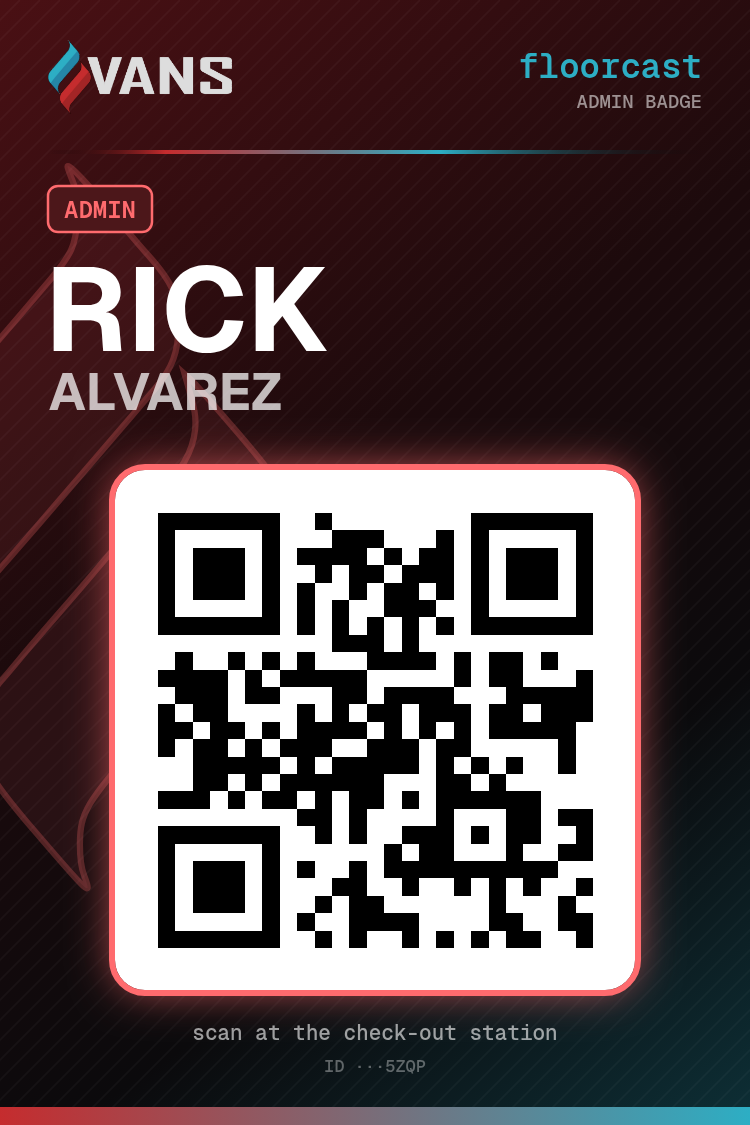
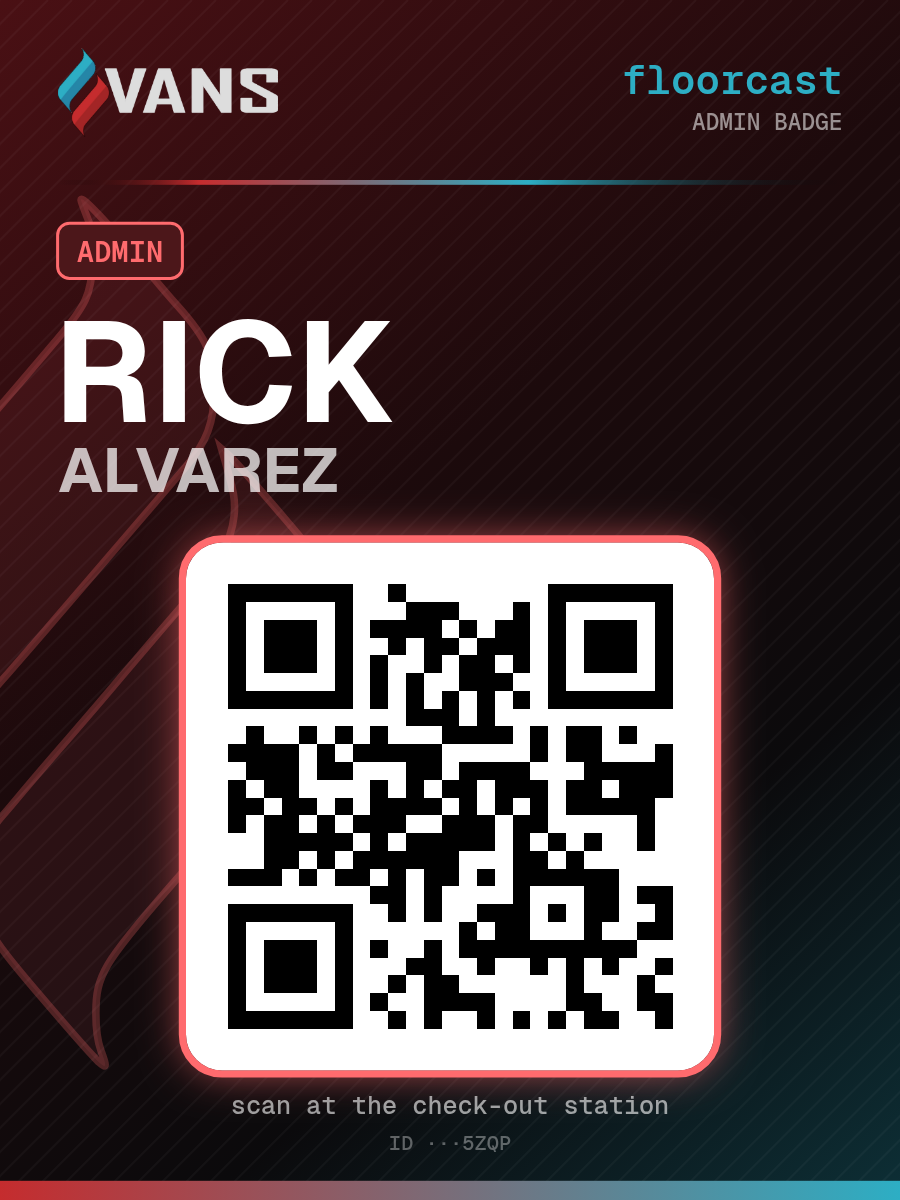
Badges: 3 x 4 in vertical for Avery 5392; print one or several on a sheet, pick the first free spot, alignment test page
Claude-Session: https://claude.ai/code/session_01MqZR9KwRFkVfd9nv53fq6N

diff --git a/src/components/Badges.tsx b/src/components/Badges.tsx
@@ -1,10 +1,10 @@
 import { useEffect, useState, type FormEvent } from "react";
-import { IdCard, Plus, Printer, RefreshCw, Share2, ShieldCheck, Trash2 } from "lucide-react";
-import { Button, Confirm, cx, errorText, toast } from "@/components/ui";
+import { Check, IdCard, Plus, Printer, RefreshCw, Share2, ShieldCheck, Trash2 } from "lucide-react";
+import { Button, Confirm, Overlay, cx, errorText, toast } from "@/components/ui";
 import { addEmployee, badgePayload, listEmployees, reissueBadge, removeEmployee, setEmployeeRole, type BadgeRole, type Employee } from "@/lib/badges";
 import { useRole } from "@/lib/role";
 import { type BadgeStyle } from "@/lib/badgeArt";
-import { renderBadgeTall } from "@/lib/badgeTall";
+import { AVERY_SPOTS, drawBadge, renderAverySheet, renderAveryTest, renderBadgeTall } from "@/lib/badgeTall";
 import { downloadBlob, printLabel } from "@/lib/sticker";
 import { DEMO_UI } from "@/lib/supabase";
 
@@ -12,12 +12,12 @@ async function badgeBlob(e: Employee, style: BadgeStyle) {
   return renderBadgeTall(e.name, badgePayload(e.badge), style, e.role);
 }
 
-/** Fits a 2½ × 3¾ in badge holder. */
-const BADGE_SIZE = { w: "2.5in", h: "3.75in" };
+/** Badges print on Avery 5392 sheets: a full letter page. */
+const LETTER = { w: "8.5in", h: "11in" };
 
 const STYLES: Array<{ style: BadgeStyle; label: string; hint: string }> = [
-  { style: "color", label: "full color", hint: "Color printer, 2½×3¾ in." },
-  { style: "label", label: "black & white", hint: "Black and white printer or labels, 2½×3¾ in." },
+  { style: "color", label: "full color", hint: "3×4 in · Avery 5392 sheets, color printer" },
+  { style: "label", label: "black & white", hint: "3×4 in · Avery 5392 sheets, any printer" },
 ];
 
 /** Share sheet on phones (Save Image / Print), download elsewhere. */
@@ -48,6 +48,7 @@ export function BadgesSection() {
   const [reissue, setReissue] = useState<Employee | null>(null);
   const [remove, setRemove] = useState<Employee | null>(null);
   const [goStation, setGoStation] = useState(false);
+  const [sheet, setSheet] = useState<{ ids: number[]; style: BadgeStyle } | null>(null);
 
   const load = () =>
     void listEmployees().then(
@@ -162,6 +163,12 @@ export function BadgesSection() {
         </ul>
       ) : null}
 
+      {people && people.length > 0 ? (
+        <Button onClick={() => setSheet({ ids: [], style: "color" })}>
+          <Printer className="size-[18px]" /> print a sheet of badges
+        </Button>
+      ) : null}
+
       <div className="mt-2 flex flex-col gap-2 rounded-[12px] border border-line bg-panel p-3.5">
         <p className="text-[14px] text-ink">Make this device the check-out station</p>
         <Button variant="primary" onClick={() => setGoStation(true)}>
@@ -194,7 +201,13 @@ export function BadgesSection() {
               <span className="text-[13px] text-dim">{STYLES.find((o) => o.style === preview.style)?.hint}</span>
               {DEMO_UI ? <span className="text-[13px] text-faint">Printing and saving are blocked in this preview.</span> : null}
               <span className="flex gap-2">
-                <Button disabled={DEMO_UI} onClick={() => void badgeBlob(preview.e, preview.style).then((b) => printLabel(b, `${preview.e.name} badge`, BADGE_SIZE))}>
+                <Button
+                  disabled={DEMO_UI}
+                  onClick={() => {
+                    setSheet({ ids: [preview.e.id], style: preview.style });
+                    setPreview(null);
+                  }}
+                >
                   <Printer className="size-[18px]" /> print
                 </Button>
                 <Button disabled={DEMO_UI} onClick={() => void saveBadge(preview.e, preview.style)}>
@@ -221,6 +234,8 @@ export function BadgesSection() {
           onConfirm={() => setPreview(null)}
         />
       ) : null}
+
+      {sheet && people ? <PrintSheet people={people} initial={sheet} onClose={() => setSheet(null)} /> : null}
 
       {reissue ? (
         <Confirm
@@ -279,5 +294,117 @@ export function BadgesSection() {
         />
       ) : null}
     </div>
+  );
+}
+
+/**
+ * Print badges on an Avery 5392 sheet (six 3×4 in spots). Pick up to six
+ * people and the first free spot, so a half-used sheet can go back in the tray.
+ */
+function PrintSheet({ people, initial, onClose }: { people: Employee[]; initial: { ids: number[]; style: BadgeStyle }; onClose: () => void }) {
+  const [ids, setIds] = useState<number[]>(initial.ids);
+  const [style, setStyle] = useState<BadgeStyle>(initial.style);
+  const [start, setStart] = useState(1);
+  const [busy, setBusy] = useState(false);
+  const room = AVERY_SPOTS - start + 1;
+  const picked = ids.map((id) => people.find((p) => p.id === id)).filter((p): p is Employee => Boolean(p)).slice(0, room);
+  const full = picked.length >= room;
+
+  const toggle = (id: number) => setIds((cur) => (cur.includes(id) ? cur.filter((x) => x !== id) : full ? cur : [...cur, id]));
+
+  async function print() {
+    setBusy(true);
+    try {
+      const items = await Promise.all(picked.map(async (p, i) => ({ badge: await drawBadge(p.name, badgePayload(p.badge), style, p.role), spot: start + i })));
+      await printLabel(await renderAverySheet(items), "Avery 5392 badge sheet", LETTER);
+    } catch (err) {
+      toast(errorText(err, "Could not print."), "error");
+    } finally {
+      setBusy(false);
+    }
+  }
+
+  return (
+    <Overlay title="Print badges" onClose={onClose} closeLabel="Close">
+      <div className="mx-auto flex w-full max-w-lg flex-1 flex-col gap-4 overflow-y-auto px-4 pt-2 pb-[max(env(safe-area-inset-bottom),16px)]">
+        <h2 className="font-sans text-[24px] leading-tight font-bold tracking-[-0.02em]">Avery 5392 sheet</h2>
+
+        <span className="flex gap-2" role="group" aria-label="Badge style">
+          {STYLES.map((o) => (
+            <button
+              key={o.style}
+              type="button"
+              aria-pressed={style === o.style}
+              onClick={() => setStyle(o.style)}
+              className={cx(
+                "vw-press min-h-10 flex-1 rounded-[8px] border px-3 text-[13px] lowercase",
+                style === o.style ? "border-cyan bg-cyan/10 text-cyan" : "border-line bg-panel text-dim",
+              )}
+            >
+              {o.label}
+            </button>
+          ))}
+        </span>
+
+        <div className="flex flex-col gap-2">
+          <span className="text-[13px] text-dim">Start at spot (skip spots already used)</span>
+          <div className="grid w-40 grid-cols-2 gap-1.5 self-center" role="group" aria-label="Start at spot">
+            {Array.from({ length: AVERY_SPOTS }, (_, i) => i + 1).map((n) => {
+              const who = n >= start ? picked[n - start] : undefined;
+              return (
+                <button
+                  key={n}
+                  type="button"
+                  aria-pressed={start === n}
+                  aria-label={`Start at spot ${n}`}
+                  onClick={() => setStart(n)}
+                  className={cx(
+                    "vw-press flex aspect-[4/3] flex-col items-center justify-center rounded-[6px] border px-1 text-[11px] leading-tight",
+                    n < start ? "border-line/50 bg-transparent text-faint line-through" : who ? "border-cyan bg-cyan/15 text-ink" : "border-line bg-panel text-dim",
+                    start === n && "ring-2 ring-cyan",
+                  )}
+                >
+                  <span className="code text-[12px]">{n}</span>
+                  {who ? <span className="max-w-full truncate">{who.name}</span> : null}
+                </button>
+              );
+            })}
+          </div>
+        </div>
+
+        <ul className="m-0 flex list-none flex-col p-0" aria-label="Who to print">
+          {people.map((p) => {
+            const on = picked.some((x) => x.id === p.id);
+            return (
+              <li key={p.id}>
+                <button
+                  type="button"
+                  role="checkbox"
+                  aria-checked={on}
+                  disabled={!on && full}
+                  onClick={() => toggle(p.id)}
+                  className="vw-press flex min-h-11 w-full items-center gap-3 border-b border-hair text-left disabled:opacity-40"
+                >
+                  <span className={cx("flex size-5 shrink-0 items-center justify-center rounded-[5px] border", on ? "border-cyan bg-cyan text-cyan-ink" : "border-line")}>
+                    {on ? <Check className="size-3.5" strokeWidth={3} /> : null}
+                  </span>
+                  <span className="min-w-0 flex-1 truncate text-[15px] text-ink">{p.name}</span>
+                  {p.role === "admin" ? <span className="rounded-[4px] border border-danger/50 px-1.5 text-[11px] text-danger lowercase">admin</span> : null}
+                </button>
+              </li>
+            );
+          })}
+        </ul>
+
+        {DEMO_UI ? <p className="text-[13px] text-faint">Printing is blocked in this preview.</p> : null}
+        <Button big variant="primary" disabled={busy || DEMO_UI || picked.length === 0} onClick={() => void print()}>
+          <Printer className="size-5" /> {busy ? "Preparing…" : `print ${picked.length || ""} ${picked.length === 1 ? "badge" : "badges"}`}
+        </Button>
+        <p className="text-[12px] text-faint">Print at 100% (actual size) from the tray with the Avery sheet, paper type heavy.</p>
+        <Button variant="ghost" disabled={DEMO_UI} onClick={() => void renderAveryTest().then((b) => printLabel(b, "Avery 5392 alignment test", LETTER))}>
+          print alignment test on plain paper
+        </Button>
+      </div>
+    </Overlay>
   );
 }

diff --git a/src/lib/badgeTall.ts b/src/lib/badgeTall.ts
@@ -1,24 +1,29 @@
 import { CYAN, MONO, RED, fit, flames, loadLogo, qrCanvas, roundRect, tinted, type BadgeStyle } from "@/lib/badgeArt";
 
 /**
- * Crew badges for 2½ × 3¾ in badge holders (750×1125, 300 dpi), vertical:
- * color (dark gradient, big background flame, glowing QR tile) or label
- * (black and white).
- * Admin badges are mostly red, with the blue and red accents swapped.
+ * Crew badges, 3 × 4 in vertical, to fit Avery 5392 name badge inserts
+ * (900×1200, 300 dpi): color (dark gradient, big background flame, glowing
+ * QR tile) or label (black and white). Admin badges are mostly red, with
+ * the blue and red accents swapped.
+ * Drawn on a 750×1000 grid, then scaled up 1.2× to 300 dpi.
  */
 const W = 750;
-const H = 1125;
+const H = 1000;
 const M = 48;
+const SCALE = 1.2;
+export const BADGE_PX = { w: W * SCALE, h: H * SCALE };
 
-export async function renderBadgeTall(name: string, payload: string, style: BadgeStyle = "color", role: "crew" | "admin" = "crew"): Promise<Blob> {
+/** One badge as a canvas (for printing several on a sheet). */
+export async function drawBadge(name: string, payload: string, style: BadgeStyle = "color", role: "crew" | "admin" = "crew"): Promise<HTMLCanvasElement> {
   await document.fonts?.ready.catch(() => undefined);
-  const QR = 470;
-  const [img, qr] = await Promise.all([loadLogo(), qrCanvas(payload, QR)]);
+  const QR = 400;
+  const [img, qr] = await Promise.all([loadLogo(), qrCanvas(payload, Math.round(QR * SCALE))]);
   const c = document.createElement("canvas");
-  c.width = W;
-  c.height = H;
+  c.width = BADGE_PX.w;
+  c.height = BADGE_PX.h;
   const g = c.getContext("2d");
   if (!g) throw new Error("Could not draw the badge.");
+  g.scale(SCALE, SCALE);
   const color = style === "color";
   const admin = role === "admin";
   const accent = admin ? (color ? "#ff6b6e" : RED) : CYAN;
@@ -135,9 +140,9 @@ export async function renderBadgeTall(name: string, payload: string, style: Badg
   }
 
   // ---------------------------------------------------------------- QR tile
-  const tile = 520;
+  const tile = 440;
   const tx = (W - tile) / 2;
-  const ty = 470;
+  const ty = 452;
   g.save();
   if (color) {
     g.shadowColor = `rgba(${accentRgb},0.75)`;
@@ -160,25 +165,90 @@ export async function renderBadgeTall(name: string, payload: string, style: Badg
     g.textAlign = "center";
     g.fillStyle = "rgba(255,255,255,0.6)";
     g.font = `500 21px ${MONO}`;
-    g.fillText("scan at the check-out station", W / 2, 1040);
+    g.fillText("scan at the check-out station", W / 2, 928);
     g.fillStyle = "rgba(255,255,255,0.35)";
     g.font = `500 17px ${MONO}`;
-    g.fillText(`ID ···${id}`, W / 2, 1072);
+    g.fillText(`ID ···${id}`, W / 2, 958);
     const strip = g.createLinearGradient(0, 0, W, 0);
     strip.addColorStop(0, from);
     strip.addColorStop(1, to);
     g.fillStyle = strip;
-    g.fillRect(0, H - 18, W, 18);
+    g.fillRect(0, H - 16, W, 16);
   } else {
     g.fillStyle = "#000000";
-    g.fillRect(0, H - 90, W, 90);
+    g.fillRect(0, H - 82, W, 82);
     g.fillStyle = "#ffffff";
     g.textAlign = "center";
     g.font = `600 21px ${MONO}`;
-    g.fillText("SCAN AT THE CHECK-OUT STATION", W / 2, H - 50);
+    g.fillText("SCAN AT THE CHECK-OUT STATION", W / 2, H - 46);
     g.font = `500 17px ${MONO}`;
-    g.fillText(`ID ${id}`, W / 2, H - 22);
+    g.fillText(`ID ${id}`, W / 2, H - 20);
   }
+  return c;
+}
 
-  return new Promise((resolve, reject) => c.toBlob((b) => (b ? resolve(b) : reject(new Error("Could not save the badge."))), "image/png"));
+const toPng = (c: HTMLCanvasElement) =>
+  new Promise<Blob>((resolve, reject) => c.toBlob((b) => (b ? resolve(b) : reject(new Error("Could not save the badge."))), "image/png"));
+
+export async function renderBadgeTall(name: string, payload: string, style: BadgeStyle = "color", role: "crew" | "admin" = "crew"): Promise<Blob> {
+  return toPng(await drawBadge(name, payload, style, role));
+}
+
+// ------------------------------------------------------------------ Avery 5392 sheet
+/**
+ * Avery 5392: letter sheet, six 4 × 3 in inserts, 2 across and 3 down,
+ * ¼ in side margins and 1 in top margin. A vertical 3 × 4 badge is turned
+ * a quarter turn to fit each spot; it comes out upright once torn out.
+ * Spots are numbered 1–6, left to right, top to bottom.
+ */
+const DPI = 300;
+const SHEET = { w: 8.5 * DPI, h: 11 * DPI };
+export const AVERY_SPOTS = 6;
+const spot = (i: number) => ({ x: 0.25 * DPI + (i % 2) * 4 * DPI, y: 1 * DPI + Math.floor(i / 2) * 3 * DPI, w: 4 * DPI, h: 3 * DPI });
+
+function sheet() {
+  const c = document.createElement("canvas");
+  c.width = SHEET.w;
+  c.height = SHEET.h;
+  const g = c.getContext("2d")!;
+  g.fillStyle = "#ffffff";
+  g.fillRect(0, 0, c.width, c.height);
+  return { c, g };
+}
+
+/** A full letter page with each badge in its spot (spot numbers 1–6). */
+export async function renderAverySheet(items: Array<{ badge: HTMLCanvasElement; spot: number }>): Promise<Blob> {
+  const { c, g } = sheet();
+  for (const { badge, spot: n } of items) {
+    const s = spot(n - 1);
+    g.save();
+    // Quarter turn: the badge's top edge lands on the spot's left edge.
+    g.translate(s.x, s.y + s.h);
+    g.rotate(-Math.PI / 2);
+    g.drawImage(badge, 0, 0, s.h, s.w);
+    g.restore();
+  }
+  return toPng(c);
+}
+
+/** Plain-paper test: the six spots outlined and numbered, to hold against a real sheet. */
+export async function renderAveryTest(): Promise<Blob> {
+  await document.fonts?.ready.catch(() => undefined);
+  const { c, g } = sheet();
+  g.strokeStyle = "#000000";
+  g.lineWidth = 4;
+  g.setLineDash([24, 14]);
+  g.fillStyle = "#000000";
+  g.textAlign = "center";
+  g.textBaseline = "middle";
+  for (let i = 0; i < AVERY_SPOTS; i++) {
+    const s = spot(i);
+    g.strokeRect(s.x, s.y, s.w, s.h);
+    g.font = `700 180px ${MONO}`;
+    g.fillText(String(i + 1), s.x + s.w / 2, s.y + s.h / 2);
+  }
+  g.font = `600 42px ${MONO}`;
+  g.fillText("Avery 5392 alignment test · print on plain paper at 100%", SHEET.w / 2, 0.5 * DPI);
+  g.fillText("Hold it against an Avery sheet: the dashed boxes should match the perforations.", SHEET.w / 2, 10.5 * DPI);
+  return toPng(c);
 }
